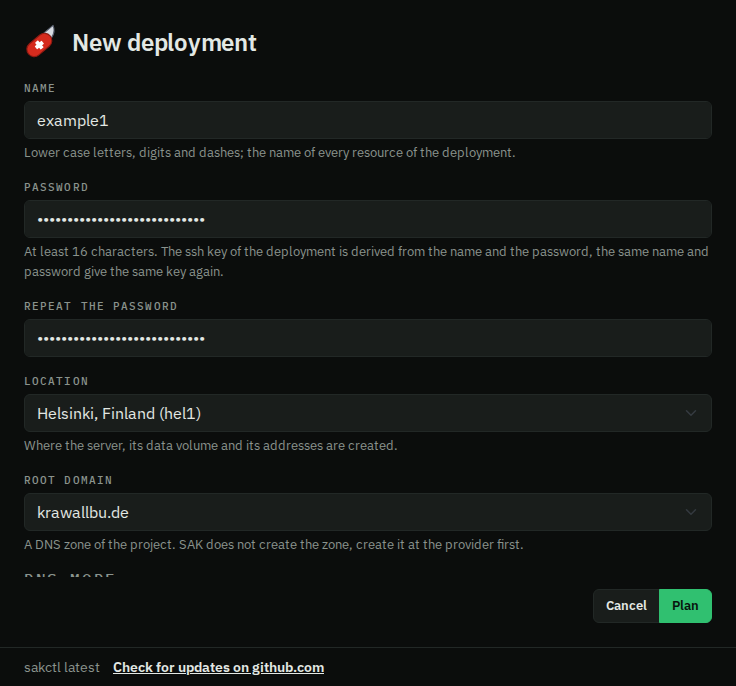
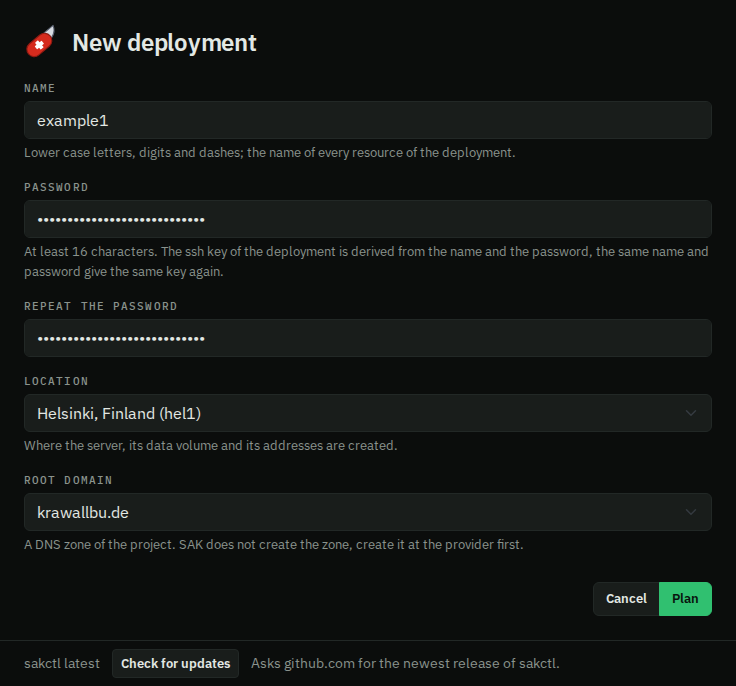
The footer of the window is one line: the version, one button for the next step of an update (check, update to, restart, disabled while a step runs) and one text of what happens, cut with an ellipsis

Changed region(s): [[0.0312, 0.9184, 0.75, 1.0], [0.8125, 0.8265, 0.9688, 0.9184]]

diff --git a/sak-cli/ui/update.js b/sak-cli/ui/update.js
@@ -1,64 +1,78 @@
-// the footer of the window: the version of sakctl and its update. Only a click asks github, the
-// button names it first; a newer release shows a second button that installs it, a successful
-// install a third that restarts sakctl with the new version
+// the footer of the window: the version of sakctl, one button and one line that says what happens.
+// The button goes through the steps of an update: check, update to the newer version, restart.
+// Only a click asks github, the line names it first; while a step runs the button is disabled
 import { text } from './views.js';
 
 const { invoke } = window.__TAURI__.core;
 
 const status = document.getElementById('update-status');
-const checkButton = document.getElementById('update-check');
-const installButton = document.getElementById('update-install');
-const restartButton = document.getElementById('update-restart');
+const button = document.getElementById('update-button');
 let receiver = '';
+// the step the button does next: check, install or restart
+let step = 'check';
 let newest = null;
 
-function say(message, failed = false) {
-  status.textContent = message;
-  status.classList.toggle('status-failed', failed);
-}
-
 // rust gives the texts as they are, the footer fills in their values
-function fill(key, values) {
+function fill(key, values = {}) {
   return Object.entries(values).reduce((filled, [name, value]) => filled.replaceAll(`%{${name}}`, value), text(key));
 }
 
-async function run(action, working) {
-  checkButton.disabled = true;
-  installButton.disabled = true;
-  say(working);
+// the one line: the button of the next step and the text of what happens or happened
+function show(next, message, { busy = false, failed = false } = {}) {
+  step = next;
+  button.textContent = {
+    check: fill('ui.update.check'),
+    install: fill('ui.update.install', { version: newest }),
+    restart: fill('ui.update.restart'),
+  }[next];
+  button.classList.toggle('btn-primary', next === 'restart');
+  button.classList.toggle('btn-outline-secondary', next !== 'restart');
+  button.disabled = busy;
+  status.textContent = message;
+  status.title = message;
+  status.classList.toggle('status-failed', failed);
+}
+
+async function check() {
+  show('check', fill('shared.update.checking', { receiver }), { busy: true });
   try {
-    const answer = await invoke(action);
-    say(answer.message);
+    const answer = await invoke('check_update');
     newest = answer.newest;
-    // stays once sakctl is replaced, until the restart
-    if (answer.installed) {
-      restartButton.hidden = false;
-    }
+    show(newest ? 'install' : 'check', answer.message);
   } catch (error) {
-    say(String(error), true);
-  }
-  checkButton.disabled = false;
-  installButton.disabled = false;
-  installButton.hidden = !newest;
-  if (newest) {
-    installButton.textContent = fill('ui.update.install', { version: newest });
+    show('check', String(error), { failed: true });
   }
 }
 
-checkButton.addEventListener('click', () => run('check_update', fill('shared.update.checking', { receiver })));
-installButton.addEventListener('click', () => run('install_update', fill('shared.update.installing', { version: newest, receiver })));
+async function install() {
+  show('install', fill('shared.update.installing', { version: newest, receiver }), { busy: true });
+  try {
+    const answer = await invoke('install_update');
+    if (answer.installed) {
+      show('restart', fill('ui.update.restart_hint', { version: answer.newest }));
+    } else {
+      newest = null;
+      show('check', answer.message);
+    }
+  } catch (error) {
+    show('install', String(error), { failed: true });
+  }
+}
+
 // gone on success, the new sakctl starts; refused while a deployment is changed
-restartButton.addEventListener('click', async () => {
+async function restart() {
   try {
     await invoke('restart');
   } catch (error) {
-    say(String(error), true);
+    show('restart', String(error), { failed: true });
   }
-});
+}
+
+button.addEventListener('click', () => ({ check, install, restart })[step]());
 
 export async function showVersion() {
   const answer = await invoke('version');
   receiver = answer.receiver;
   document.getElementById('update-version').textContent = fill('ui.update.version', { version: answer.version });
-  checkButton.textContent = fill('ui.update.check', { receiver });
+  show('check', fill('ui.update.idle', { receiver }));
 }

diff --git a/sak-cli/ui/index.html b/sak-cli/ui/index.html
@@ -329,13 +329,12 @@
         </div>
       </form>
     </dialog>
-    <!-- below every view: the version of sakctl and its update, github is asked on a click only -->
+    <!-- below every view, one line: the version of sakctl, the button of the next step of its
+         update and what happens (update.js); github is asked on a click only -->
     <footer class="app-footer">
       <span id="update-version"></span>
-      <button type="button" class="btn btn-link btn-sm" id="update-check"></button>
-      <button type="button" class="btn btn-outline-secondary btn-sm" id="update-install" hidden></button>
-      <button type="button" class="btn btn-primary btn-sm" id="update-restart" data-text="ui.update.restart" hidden></button>
-      <span class="hint" id="update-status" aria-live="polite"></span>
+      <button type="button" class="btn btn-outline-secondary btn-sm" id="update-button"></button>
+      <span class="hint update-status" id="update-status" aria-live="polite"></span>
     </footer>
   </body>
 </html>

diff --git a/sak-cli/ui/style.css b/sak-cli/ui/style.css
@@ -20,22 +20,28 @@ body {
   min-height: 0;
 }
 
-/* the version of sakctl and its update below every view, small and quiet */
+/* the version of sakctl and its update below every view, small and quiet, always one line: a
+   text longer than the line ends with an ellipsis, its title has all of it */
 .app-footer {
   flex: none;
   display: flex;
   align-items: center;
-  flex-wrap: wrap;
   gap: var(--sak-space-3);
+  white-space: nowrap;
   padding: var(--sak-space-2) var(--sak-space-5);
   border-top: 1px solid var(--sak-line);
   color: var(--sak-muted);
   font-size: var(--sak-text-sm);
 }
 
-.app-footer .btn-link {
-  padding: 0;
-  font-size: inherit;
+.app-footer .btn {
+  flex: none;
+}
+
+.update-status {
+  min-width: 0;
+  overflow: hidden;
+  text-overflow: ellipsis;
 }
 
 [hidden] {

diff --git a/sak-cli/src-tauri/src/gui/update.rs b/sak-cli/src-tauri/src/gui/update.rs
@@ -50,10 +50,14 @@ pub async fn check_update() -> Result<UpdateResponse, String> {
 #[tauri::command]
 pub async fn install_update() -> Result<UpdateResponse, String> {
     let status = update::install().await?;
+    let newest = match &status {
+        Status::Newer { newest, .. } => Some(newest.clone()),
+        _ => None,
+    };
     Ok(UpdateResponse {
         message: status.installed_message(),
-        newest: None,
-        installed: matches!(status, Status::Newer { .. }),
+        installed: newest.is_some(),
+        newest,
     })
 }
 

diff --git a/docs/installation.md b/docs/installation.md
@@ -69,10 +69,11 @@ Edge WebView2 runtime, which Windows 10 and 11 have.
 
 ## Update
 
-sakctl does not look for updates on its own. To update it, click **Check for updates on github.com** in the footer
-of the window, then **Update to** the new version. On the command line, `sakctl update` does the same, and
-`sakctl update --check` only shows if a new version is available. sakctl asks GitHub for the newest release, checks
-the SHA-256 checksum of the download and replaces itself. Start sakctl again to use the new version.
+sakctl does not look for updates on its own. To update it, use the button in the footer of the window: **Check for
+updates**, then **Update to** the new version, then **Restart**. The line next to the button says what happens. On
+the command line, `sakctl update` does the same, and `sakctl update --check` only shows if a new version is
+available; start sakctl again to use the new version. sakctl asks GitHub for the newest release, checks the SHA-256
+checksum of the download and replaces itself.
 
 A deploy with the new version also updates the server of the deployment to it.
 
